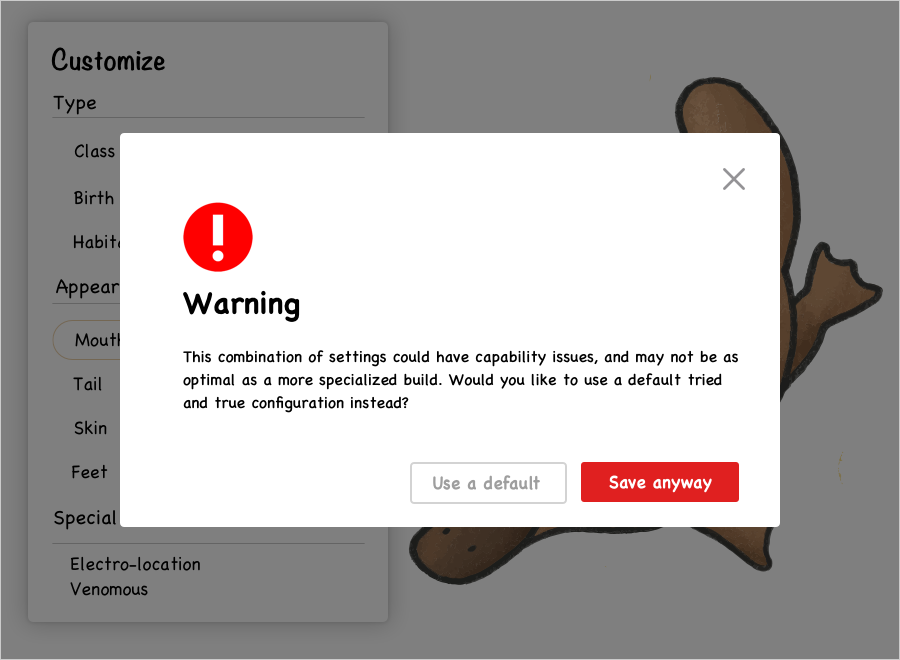
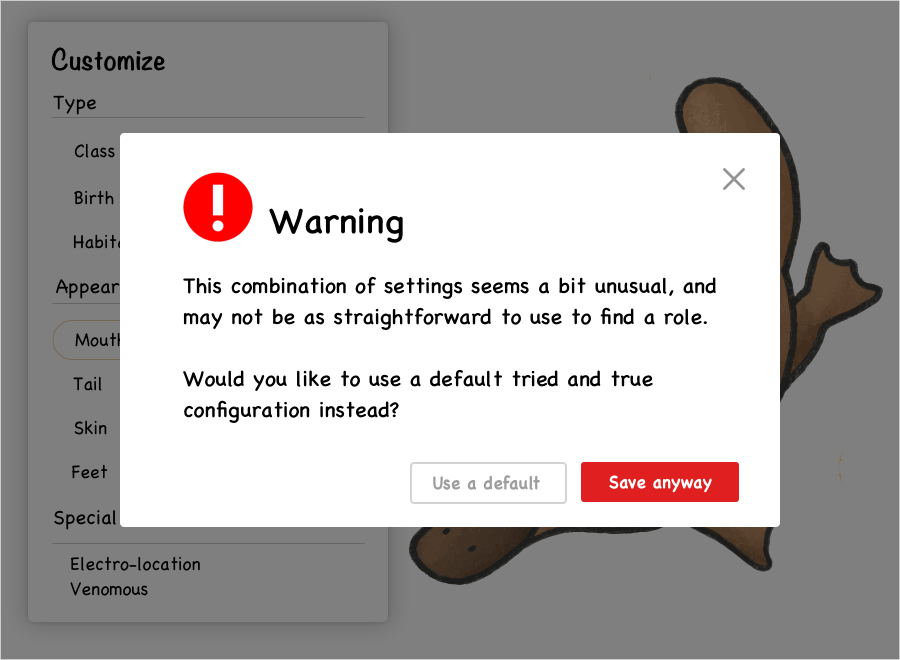
updates

Changed region(s): [[0.1867, 0.2424, 0.8089, 0.6364]]

diff --git a/blog/0725-platypus.md b/blog/0725-platypus.md
@@ -11,6 +11,8 @@ When I graduated college looking for my first job, the conventional wisdom was t
 
 As an interviewer and mentor, now I see a plethora of cookie cutter portfolios that check all the boxes listed, each complete with case studies that demonstrate a thoughtful design thinking process, and showcasing a range of design skills and SEO buzzwords. *Check.* But what about beyond that? What about the boxes not listed?
 
+People hire individuals, not websites.
+
 ## What makes you different?
 
 ![platypus fusion](../src/assets/platypus/fusion.png)
@@ -25,7 +27,7 @@ This mix is so bizarre that initially scientists thought its very existence must
 
 Given it's unique amalgamation of traits, how would you recommend a platypus apply for a job?
 
-Despite being a jack of many trades, it is certainly master of none. Its not as a fast as a sailfish or swordfish. Its not as poisonous as a pufferfish. If you were to evaluate a platypus by its aptitude in flying like a duck, it might even start to lose self-esteem and think it'll never find gainful employment.
+Although a jack of many trades, it is not particularly a master in each one. If the job required the fastest swimmer, its not as competitive as a sailfish or swordfish. If the job needed the most deadly venom, it would be outdone by a pufferfish or box jellyfish. Despite its beaver tail, if the job involved building a dam, a real beaver would certainly construct a better structure. If you were to evaluate a platypus by its aptitude in flying like a duck, it might even start to lose self-esteem and think it'll never find gainful employment.
 
 ![platypus warning](../src/assets/platypus/customize-warning.png)
  
@@ -34,9 +36,9 @@ Instead, imagine how a platypus might successfully pitch itself:
 >  **"Not only can I swim, but I can poison enemies and see underwater
 > with electroreception!"**
 
-Instead of shoehorning itself into a mold of a duck, it would be way better off emphasizing its own strengths. Even though it can compete with the beak, it can't fly and it can't quack. If it doesn't fly like a duck or quack like a duck, maybe its not meant to be a duck.
+Now who else can do that? 
 
-Same goes for pretending to be a pufferfish, because despite it being venomous it cant do the cool puffing up thing. And although it has a beaver tail, it certainly can't build dams quite as well.
+Instead of shoehorning itself into a mold of a duck, it would be way better off emphasizing its own strengths. Even though it can compete with the beak, it can't fly and it can't quack. If it doesn't fly like a duck or quack like a duck, maybe its not meant to be a duck.
 
 The platypus's unique combination is its best selling point. Nothing else even comes close in terms of being good at its combination of traits. The intersection of its unique qualities is its superpower.
 
@@ -57,11 +59,11 @@ But as a designer-coder with a quant background and a passion for visualizing in
 
 ## But if I don't try to be what companies are asking for, how will I get hired?
 
-In dating we often hear the advice to "be yourself." Granted, if "being yourself" means that you don't shower and can't hold a conversation, you might have a harder time finding a date. There is a baseline that underscores the matchmaking process in both dating and the professional world. While you might find that this approach limits yourself to fewer options, those options end up being of a higher caliber and a greater chance of success. After all, you only need one job (and one significant other, typically). By being your best self, you have a much higher chance of actually finding a match that is the best fit for you. 
+In dating we often hear the advice to "be yourself." By being yourself, you have a much higher chance of actually finding a match that is the best fit for you. You might match with less people/companies, but those matches will likely be a better fit, and have a much greater chance of working out well in the long term. After all, you only need one job (and one significant other, typically). 
 
-I prefer the modified version of "be yourself" -- **be your best self**. If the version of yourself today doesn't meet the bar of who you want to be with or where you want to work, then you'll have to put in the effort to upgrade into a better iteration of yourself. Spend the time to learn the necessary skills and expertise. Be authentic to your own passions and experiences. You can only fake things for so long, and pretending to be something that you're not is often an exhausting, non-viable strategy for the long term.
+Granted, if "being yourself" means that you don't shower and can't hold a conversation, you might have a harder time finding a match. There is a baseline that underscores the matchmaking process. I prefer the modified version of "be yourself" -- **become your best self**. If the version of yourself today doesn't meet the bar of who you want to be with or where you want to work, then you'll have to put in the effort to upgrade into a better iteration of yourself. Spend the time to learn the necessary skills and expertise. Be authentic to your own passions and experiences. You can only fake things for so long, and pretending to be something that you're not is often an exhausting, non-viable strategy for the long term.
 
-The intersection of your skills, passions, and experiences is what makes you unique, and can be your greatest asset. A platypus may not make for the best duck, beaver, or otter. But a duck, beaver, or otter will never be able to out-platypus the platypus.
+The intersection of your skills, passions, and experiences is what makes you unique, and can be your greatest asset. What makes you different is a huge part of the value you bring to a team. A platypus may not make for the best duck, beaver, or otter. But a duck, beaver, or otter will never be able to out-platypus the platypus.
 
 ----
 
